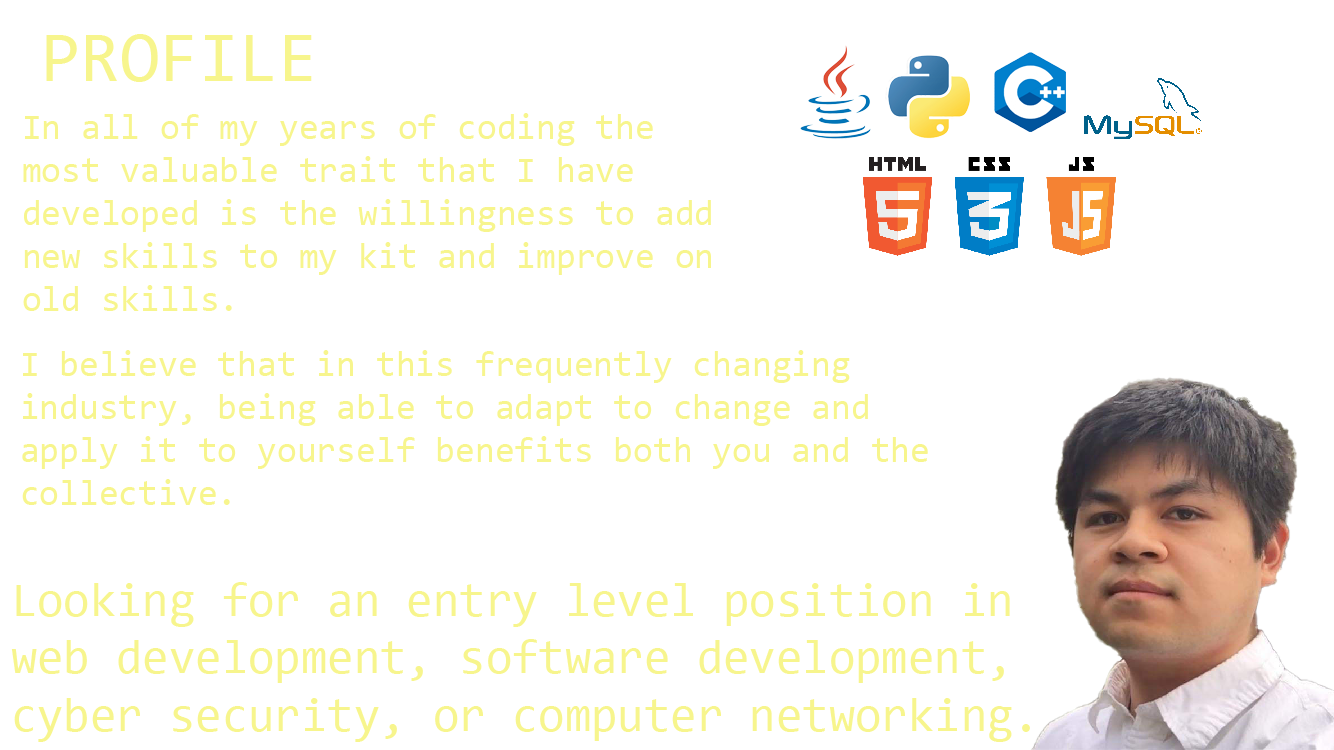
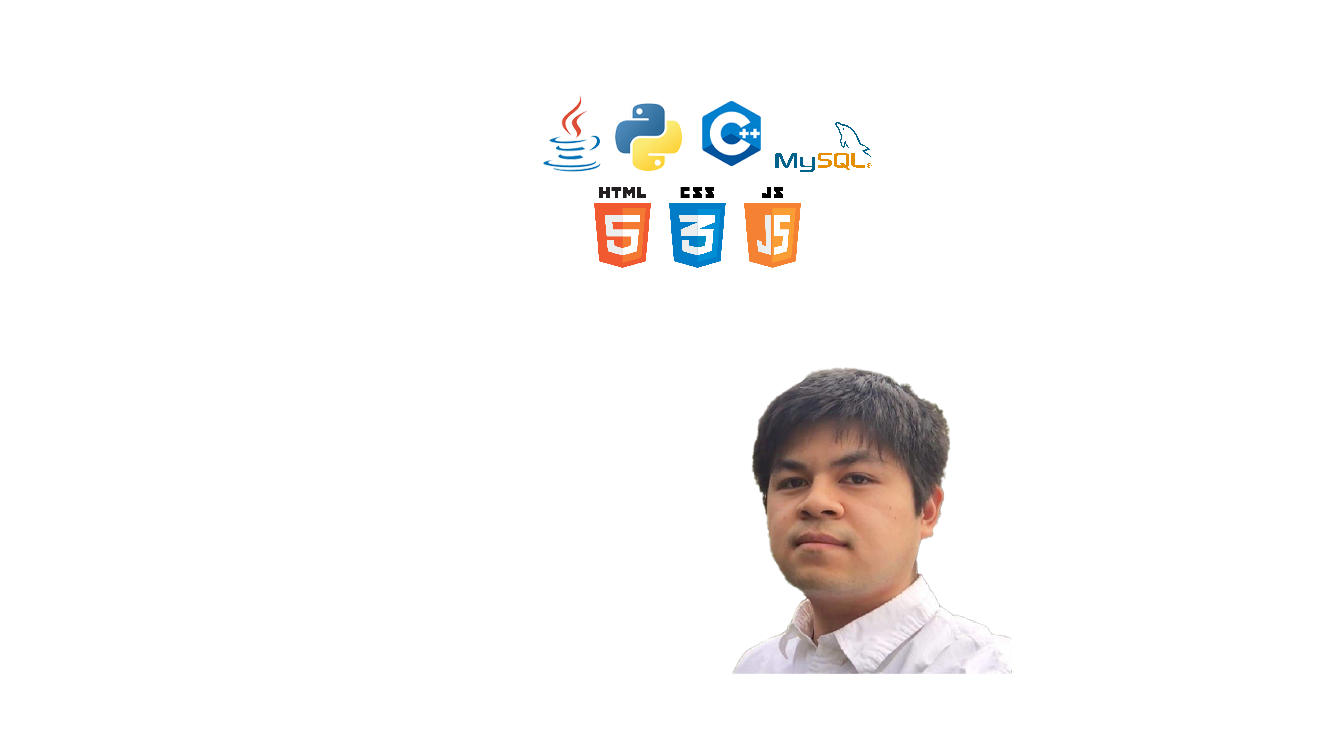
structure changes

diff --git a/index.html b/index.html
@@ -48,7 +48,7 @@
 				</div>
 			</div>
 		</div>
-		<div id="aboutme">
+		<div id="aboutme" style="padding-bottom: 35px;">
 			<h1 class="banner">
 				<span></span>
 				<span></span>
@@ -57,14 +57,46 @@
 				About Me
 			</h1>
 			<div class="swiper-container aboutswiper">
+    			<div class="parallax-bg" style="background-image:url(./img/profile.png)" data-swiper-parallax="-23%"></div>
     			<div class="swiper-wrapper">
-    				<div class="swiper-slide" style="background-image:url(./img/profile.png)"></div>
-    				<div class="swiper-slide" style="background-image:url(./img/edu.png)"></div>
+    				<div class="swiper-slide">
+    					<div class="title" data-swiper-parallax="-300">Profile</div>
+    					<div class="text" data-swiper-parallax="-100">
+    						<p>
+    							In all of my years of coding the most valuable trait that 
+    							I have developed is the willingness to add
+    							new skills to my kit and improve on old skills. <br> <br>
+    							I believe that in this frequently changing 
+    							industry, being able to adapt to change and 
+    							apply it to yourself benefits both you and the collective. <br> <br>
+    							Looking for an entry level position in web development, software development, 
+    							cyber security, or computer networking.
+    						</p>
+    					</div>
+    				</div>
+    				<div class="swiper-slide">
+    					<div class="title" data-swiper-parallax="-300" style="right: 1vw;">Education</div>
+    					<div class="text" data-swiper-parallax="-100" style="right: 1vw; max-width: 550px;">
+    						<p>
+    							<strong>San Jose State University</strong> (2016 - 2020) <br>
+    							- Bachelor of Science in Computer Science (Spring 2020)<br>
+    							- Basic Certificate in Cybersecurity Fundamentals (Fall 2019)<br> 
+    							<br>
+    							<strong>Deep Course</strong>: Computer Network Management <br> <br>
+    							<u>Favorite Courses</u> <br>
+    							Data Structures and Algorithms <br>
+                 				Software Engineering <br>
+                 				Intro to Artificial Intelligence <br>
+                 				Intro to Database Management Systems <br>
+                 				Information Security <br>
+    						</p>
+    					</div>
+    				</div>
     			</div>
-    			<div class="swiper-pagination"></div>
-    		</div>
+    			<div class="swiper-scrollbar"></div>
+			</div>
 		</div>
-		<div id="projects">
+		<div id="projects" style="padding-bottom: 30px;">
 			<h1 class="banner">
 				<span></span>
 				<span></span>
@@ -87,6 +119,7 @@
     					<a href="https://github.com/SBoulanger/NotFlix" target="_blank"><i class="fa fa-github" aria-hidden="true"></i></a>
     				</div>
     			</div>
+    			<div class="swiper-pagination"></div>
     		</div>
 		</div>
 		<div id="contactme">
@@ -100,17 +133,23 @@
 			<div class="container position-relative d-block text-center pt-5 vh-100">
 				<form id="contactmeform">
 					<fieldset>
+						<div class="alert alert-success alert-dismissible fade show" role="alert">
+							Your message has been sent!
+							<button type="button" class="close" data-dismiss="alert" aria-label="Close">
+								<span aria-hidden="true">&times;</span>
+							</button>
+						</div>
 						<div class="form-group">
 							<label for="sumbittername">Your Name</label>
-							<input type="text" class="form-control form-control-lg" id="name" placeholder="Enter Name">
+							<input type="text" class="form-control form-control-lg" id="name" placeholder="Enter Name" required>
 						</div>
 						<div class="form-group">
 							<label for="submittercontact">Your Contact Information</label>
-							<input type="text" class="form-control form-control-lg" id="submittercontact" placeholder="Email and/or Phone #">
+							<input type="text" class="form-control form-control-lg" id="submittercontact" placeholder="Email and/or Phone #" required>
 						</div>
 						<div class="form-group">
 							<label for="message">Message</label>
-							<textarea class="form-control form-control-lg" id="msg" rows="3"></textarea>
+							<textarea class="form-control form-control-lg" id="msg" rows="3" required></textarea>
 						</div>
 						<button type="submit" class="btn btn-md btn-outline-warning">Submit</button>
 					</fieldset>
@@ -145,14 +184,15 @@
 		<script type="text/javascript" src="./js/swiper/swiper.min.js"></script>
 		<script>
 			var aboutswiper = new Swiper('.aboutswiper', {
-				effect: 'flip', grabCursor: true, loop: true,
-				pagination: {el: '.swiper-pagination', dynamicBullets: true, clickable: true},
+				speed: 600, parallax: true,
+				scrollbar: { el: '.swiper-scrollbar',},
 			});
 		</script>
 		<script>
 			var projectswiper = new Swiper('.projectswiper', {
 				effect: 'coverflow', grabCursor: true, centeredSlides: true, slidesPerView: 'auto', loop: true,
 				coverflowEffect: { rotate: 50, stretch: 0, depth: 100, modifier: 1, slideShadows: true,},
+				pagination: {el: '.swiper-pagination', dynamicBullets: true, clickable: true},
 			});
 		</script>
 		<!-- firebase and form script -->

diff --git a/css/style.css b/css/style.css
@@ -191,34 +191,24 @@ h1{
 	box-shadow: 1px 3px 5px #edeb8c;
 }
 
-/*---- swiper.js ----*/
+#contactme .alert{
+	display: none;
+}
+
+/*---- swiper.js GENERAL ----*/
 .swiper-container {
-	padding-top: 50px;
+	width: 100%;
+    height: 100%;
+    padding-top: 50px;
 	padding-bottom: 50px;
 }
 
-.swiper-slide {
-	background-position: center;
-	background-size: 100% 100%;
-}
-
-.aboutswiper {
-	width: 70vw;
-	height: 80vh;
-}
-
-.projectswiper .swiper-slide{
-	width: 950px;
-	height: 750px;
-}
-
 .swiper-pagination-bullet {
-    opacity: 1;
+    opacity: .9;
     border: #f7f58d solid 1px;
     background-color: transparent;
     width: 20px;
     height: 20px;
-    margin-bottom: 5px;
 }
 
 .swiper-pagination-bullet-active {
@@ -226,7 +216,73 @@ h1{
     box-shadow: 0px 0px 70px #edeb8c;
 }
 
-.swiper-slide a {
+.swiper-scrollbar {
+    background-color: gray;
+}
+
+.swiper-scrollbar-drag {
+    background-color: #f7f58d;
+}
+
+/*---- swiper.js ABOUT swiper ----*/
+.aboutswiper {
+	width: 80%;
+	height: 90vh;
+}
+
+.parallax-bg {
+	position: absolute;
+	left: 0;
+	top: 0;
+	width: 100%;
+	height: 100%;
+	background-size: cover;
+	background-position: center;
+}
+
+.aboutswiper .swiper-slide {
+	font-family: consolas;
+	color: #f7f58d;
+	text-shadow: 0px 5px 7px black;
+}
+
+.aboutswiper .title {
+	background-color: rgba(0, 0, 0, 0.5);
+	border-radius: 10%;
+	padding: 0 10px 0;
+	position:absolute;
+	top: 30%;
+	font-size: 35px;
+	font-weight: 200;
+}
+
+.aboutswiper .subtext {
+	background-color: rgba(0, 0, 0, 0.8);
+	border-radius: 10%;
+	padding: 0 10px 0;
+	position:absolute;
+	top: 35%;
+	font-size: 25px;
+}
+
+.aboutswiper .text {
+	background-color: rgba(0, 0, 0, 0.9);
+	border-radius: 5%;
+	padding: 10px;
+	position:absolute;
+	top: 40%;
+	font-size: 20px;
+	max-width: 450px;
+	line-height: 1.5;
+}
+
+/*---- swiper.js PROJECT swiper ----*/
+.projectswiper .swiper-slide{
+	width: 950px;
+	height: 750px;
+}
+
+.projectswiper a {
 	border-radius: 50%;
 	font-size: 40px;
 	top: 90%;
@@ -236,7 +292,7 @@ h1{
 	color: #f7f58d;
 }
 
-.swiper-slide a:hover{
+.projectswiper a:hover{
 	font-size: 45px;
 	color: white;
 }

diff --git a/js/contactform.js b/js/contactform.js
@@ -22,11 +22,15 @@ function submitForm(e){
 	var contact = getInput('submittercontact');
 	var msg = getInput('msg');
 
+	// send message
 	sendMsg(name, contact, msg);
 
-	console.log(name);
-	console.log(contact);
-	console.log(msg);
+	// confirmation
+	document.querySelector('.alert').style.display = 'block';
+	// hide confirmation
+	setTimeout(function() {
+		document.querySelector('.alert').style.display = 'none';
+	}, 2500)
 
 	document.getElementById('contactmeform').reset();
 }
